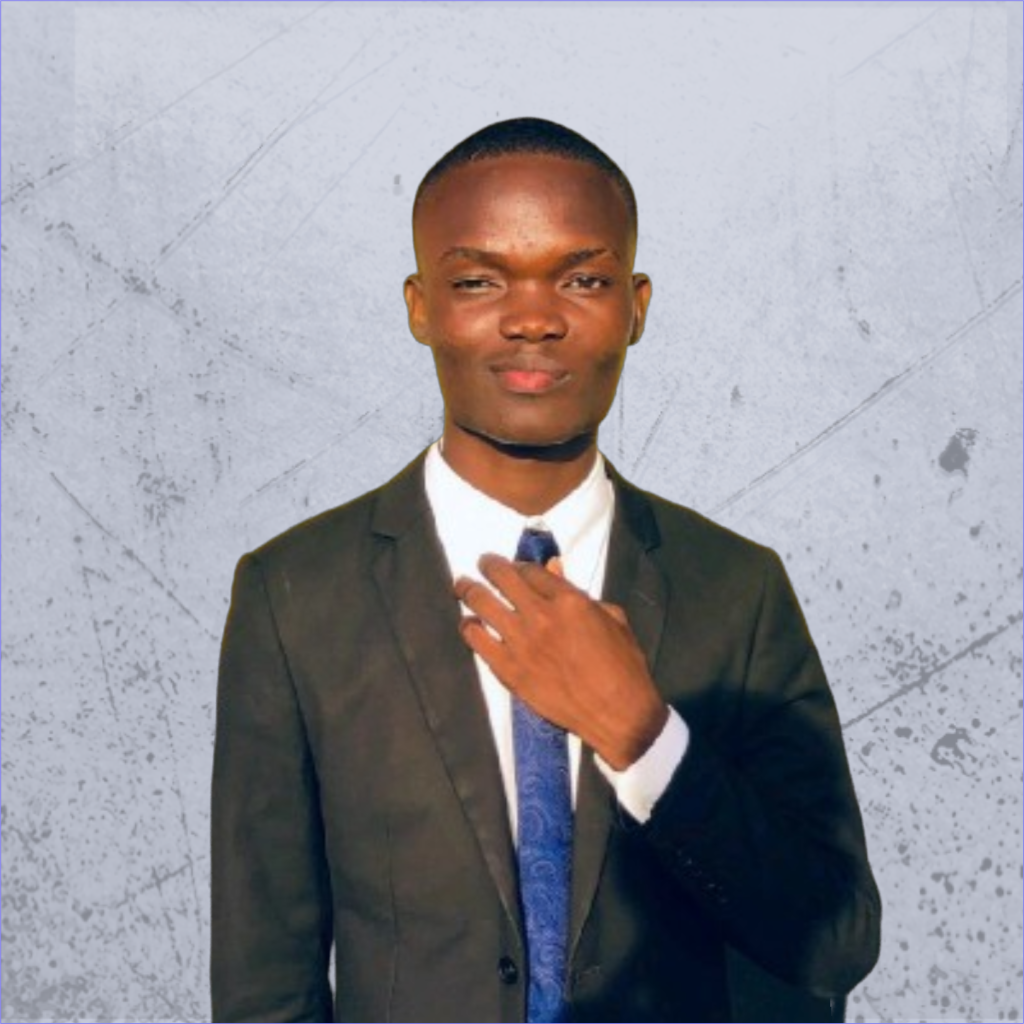
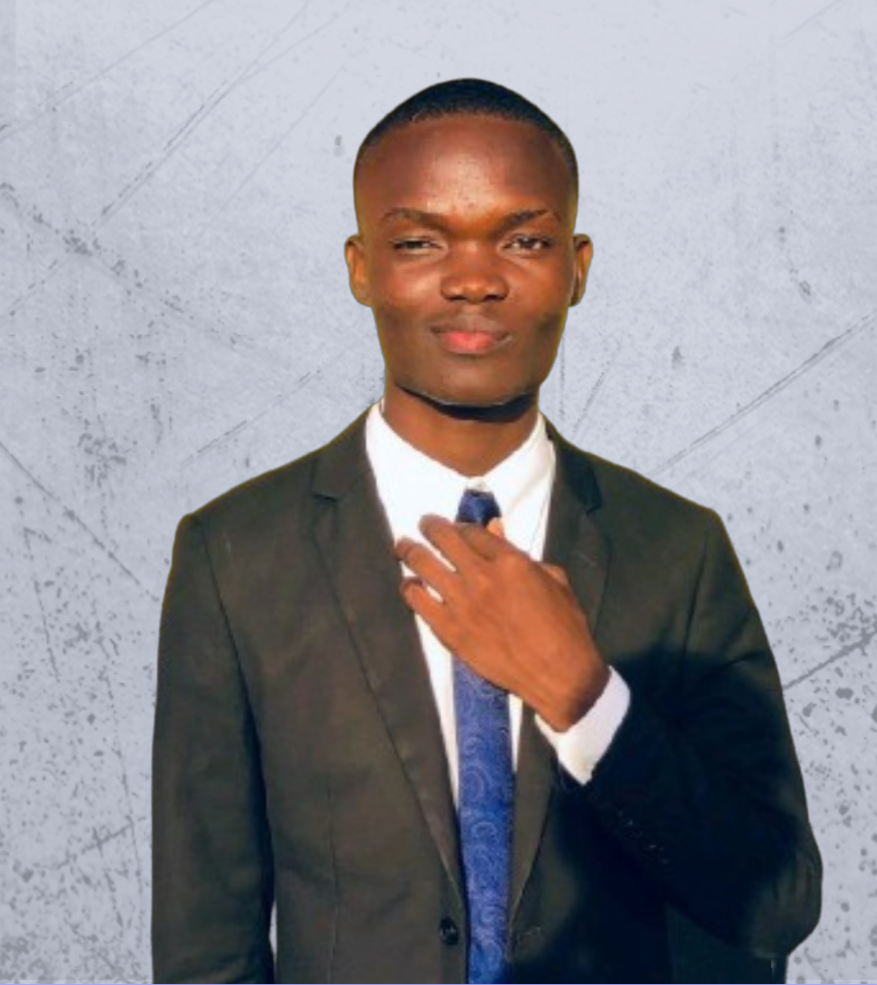
refactor: 💡 Profile Dev
Adicioner alguns perfis de devs

diff --git a/src/app/home/Equipe.tsx b/src/app/home/Equipe.tsx
@@ -19,14 +19,17 @@ export default function Equipe(){
             { quote: "Lorem ipsum dolor sit amet, consectetur adipisicing elit. Laborum itaque facilis architecto modi fugit laboriosam possimus similique veniam", name: "Lucas Pacavira", designation: "Analista de Seguranca", src:"/images/equipe/CO-FOUNDER.jpg", linkedin:"linkedi/in/dinisdev", insta:"instagram/denis" },
     
             { quote: "Lorem ipsum dolor sit amet, consectetur adipisicing elit. Laborum itaque facilis architecto modi fugit laboriosam possimus similique veniam", name: "David Ferreira", designation: "Analista de seguranca", src:"/images/equipe/David.jpeg", linkedin:"linkedi/in/dinisdev", insta:"instagram/denis"},
-    
-            { quote: "Lorem ipsum dolor sit amet, consectetur adipisicing elit. Laborum itaque facilis architecto modi fugit laboriosam possimus similique veniam", name: "Dennis Camela", designation: "Dev FullStack |Designer UI", src:"/images/equipe/DevDennis.png", linkedin:"linkedi/in/dinisdev", insta:"instagram/denis" },
 
-            { quote: "Lorem ipsum dolor sit amet, consectetur adipisicing elit. Laborum itaque facilis architecto modi fugit laboriosam possimus similique veniam", name: "Mario Matias", designation: "Frontend Deloper", src:"/images/equipe/DevMatias.png", linkedin:"linkedi/in/dinisdev", insta:"instagram/denis" },
+            { quote: "Lorem ipsum dolor sit amet, consectetur adipisicing elit. Laborum itaque facilis architecto modi fugit laboriosam possimus similique veniam", name: "Carlos Avelino", designation: "Backend Developer | Analista de Sistema", src:"/images/equipe/Analista.png", linkedin:"linkedi/in/dinisdev", insta:"instagram/denis" },
+    
+            { quote: " Desenvolvedor de softwares com uma certa bagagem no frontend, trabalha com tecnologias que o fazem sentir - se cada vez mais proximo de alcançar seus desafios como frontend(React/Next), Backend(Node/Prisma) e Desifner(Figma)", name: "Dennis Camela", designation: "Desenvolvedor de Software | Designer UI", src:"/images/equipe/DevDennis.png", linkedin:"linkedi/in/dinisdev", insta:"instagram/denis" },
+
+            { quote: "Lorem ipsum dolor sit amet, consectetur adipisicing elit. Laborum itaque facilis architecto modi fugit laboriosam possimus similique veniam", name: "Mário Matias", designation: "Frontend Developer", src:"/images/equipe/DevMatias.png", linkedin:"linkedi/in/dinisdev", insta:"instagram/denis" },
+
+            { quote: "Apaixonada por transformar ideias em interfaces incríveis, Ama trabalhar com tecnologias com React, Nextjs, Tailwindcss e Bootstrap. Tem como objetivo constante aprimorar suas habilidades e sempre disposta a enfrentar novos desafios que contribuam para meu  crescimento profissional. ", name: "Eugenia Gaieta", designation: "Frontend Developer", src:"/images/equipe/DevEugenia.jpg", linkedin:"linkedi/in/dinisdev", insta:"instagram/denis" },
             
             { quote: "Lorem ipsum dolor sit amet, consectetur adipisicing elit. Laborum itaque facilis architecto modi fugit laboriosam possimus similique veniam", name: "Kumbris Designer", designation: "Designer Grafico", src:"/images/equipe/Kiala.png", linkedin:"linkedi/in/dinisdev", insta:"instagram/denis" },
            
-            { quote: "Lorem ipsum dolor sit amet, consectetur adipisicing elit. Laborum itaque facilis architecto modi fugit laboriosam possimus similique veniam", name: "Carlos Avelino", designation: "Analista de Sistema", src:"/images/equipe/Analista.png", linkedin:"linkedi/in/dinisdev", insta:"instagram/denis" },
           ]
 
     return(
